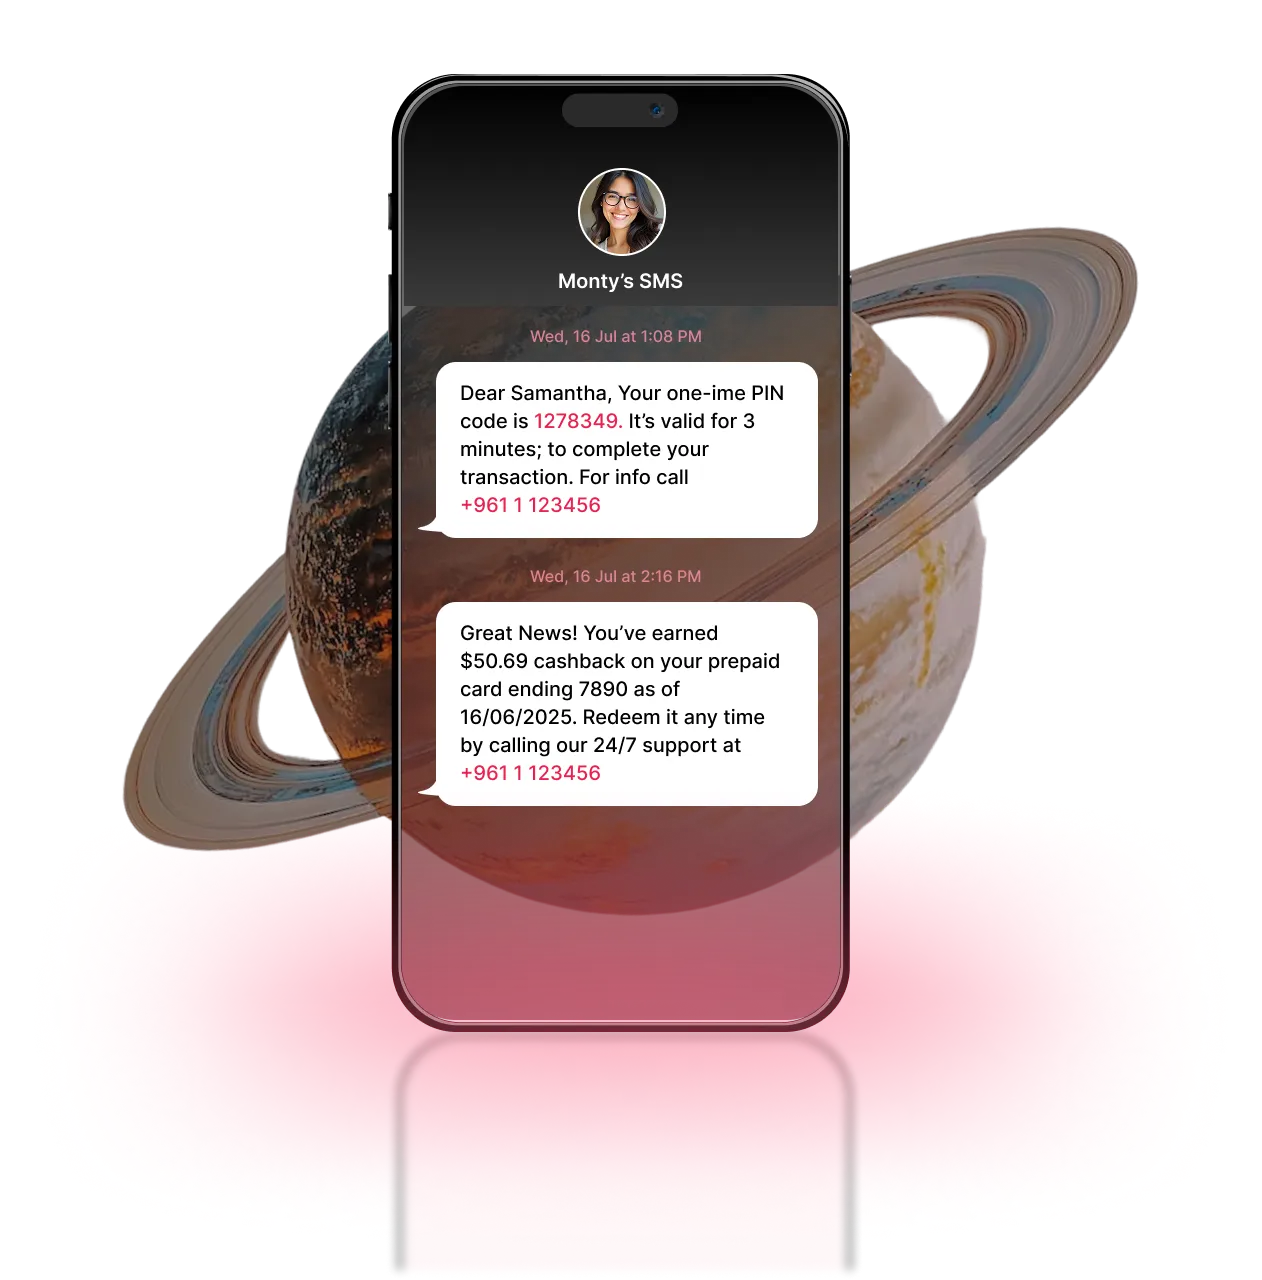
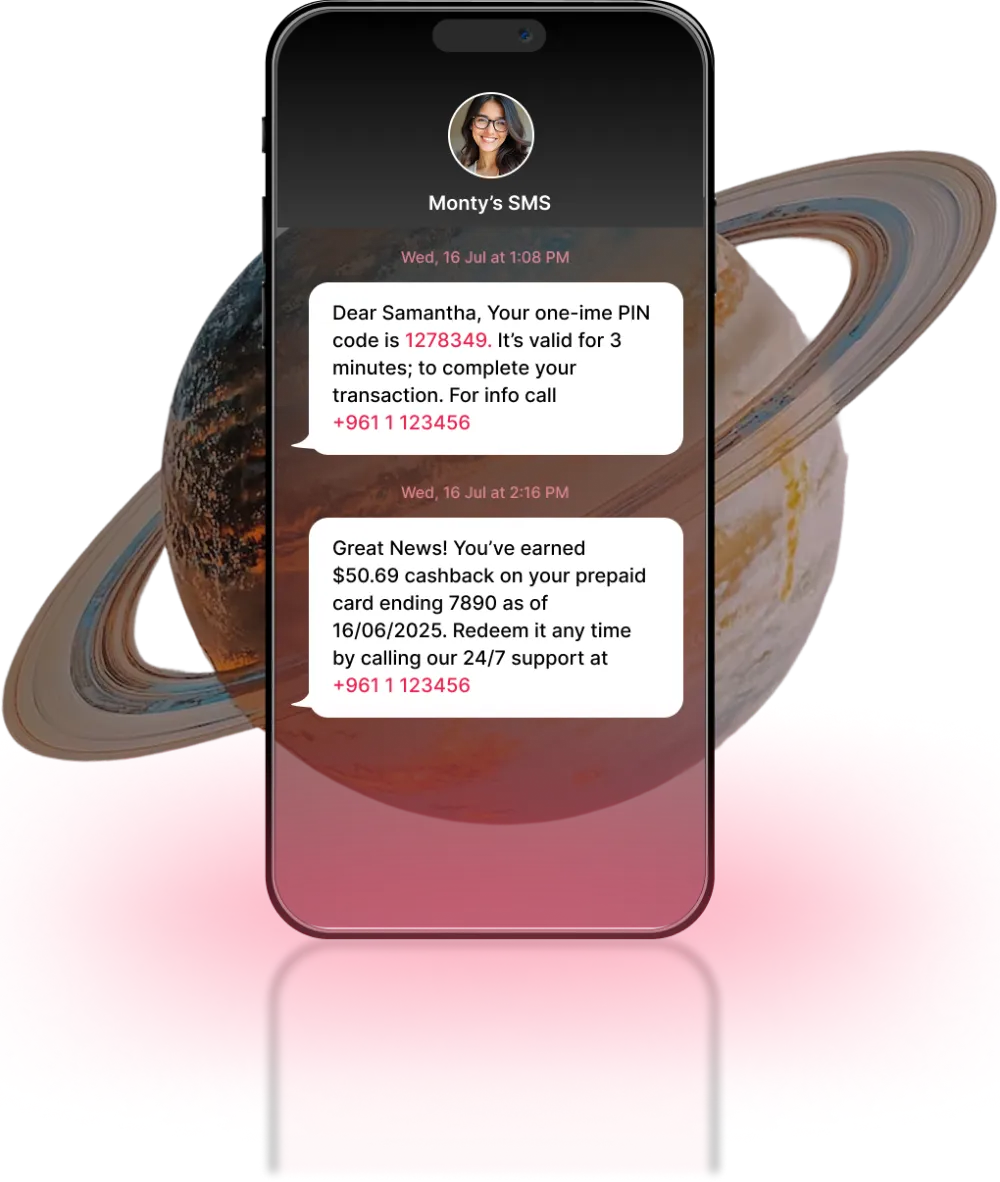
.

diff --git a/app/components/Banner.js b/app/components/Banner.js
@@ -2,9 +2,23 @@ import React from 'react';
 
 const Banner = () => {
   return (
-    <section>
-        <div className='container'>
-            
+    <section className='max-lg:py-10 lg:py-24'>
+        <div className='container max-lg:flex-col flex justify-between max-lg:gap-10 lg:gap-20'>
+            <div className='w-full'>
+                <div className='flex flex-col gap-5 lg:translate-y-24'>
+                    <h1 className='xl:text-6xl font-semibold text-balance'>Deliver Messages at Scale with Monty’s A2P SMS</h1>
+                    <p className='text-balance'>Power mission-critical communications with direct operator access, high-speed delivery, and full global coverage.</p>
+                    <a className='a2p-button mt-10' href='#'>
+                        <span>Contact Us</span>
+                        <svg className='translate-y-[0.5px]' width="18" height="14" viewBox="0 0 18 14" fill="none" xmlns="http://www.w3.org/2000/svg">
+                            <path fillRule="evenodd" clipRule="evenodd" d="M10.4697 0.46967C10.7626 0.176777 11.2374 0.176777 11.5303 0.46967L17.5303 6.46967C17.8232 6.76256 17.8232 7.23744 17.5303 7.53033L11.5303 13.5303C11.2374 13.8232 10.7626 13.8232 10.4697 13.5303C10.1768 13.2374 10.1768 12.7626 10.4697 12.4697L15.1893 7.75H1C0.585786 7.75 0.25 7.41421 0.25 7C0.25 6.58579 0.585786 6.25 1 6.25H15.1893L10.4697 1.53033C10.1768 1.23744 10.1768 0.762563 10.4697 0.46967Z" fill="white"/>
+                        </svg>
+                    </a>
+                </div>
+            </div>
+            <div className='w-full flex justify-end'>
+                <img src='/phone-planet.webp' className='lg:w-[600px]' alt="Phone Planet" width={1262} height={1280}/>
+            </div>
         </div>
     </section>
   )

diff --git a/app/layout.js b/app/layout.js
@@ -9,7 +9,8 @@ export default function RootLayout({ children }) {
   return (
     <html lang="en">
       <body className="font-outfit text-white bg-black">
-        <div className="absolute top-0 left-1/2 -translate-x-1/2">
+        <img className="fixed grayscale-100 -z-10 top-0 left-0 w-full h-full object-cover" src="/stars.webp" />
+        <div className="absolute top-0 left-1/2 -translate-x-1/2 -z-10">
           <svg className="max-lg:w-screen max-lg:h-auto" width="1015" height="438" viewBox="0 0 1015 438" fill="none" xmlns="http://www.w3.org/2000/svg">
             <g filter="url(#filter0_f_3_51)">
             <circle cx="507.5" cy="-69.5" r="257.5" fill="#EB224D" fillOpacity="0.4"/>
@@ -23,7 +24,6 @@ export default function RootLayout({ children }) {
             </defs>
           </svg>
         </div>
-        <img className="fixed grayscale-100 -z-10 top-0 left-0 w-full h-full object-cover" src="/stars.webp" />
         {children}
       </body>
     </html>

diff --git a/app/globals.css b/app/globals.css
@@ -27,3 +27,7 @@
 .menu > ul > li a:hover {
   @apply border border-[rgb(114,28,52)] bg-[rgba(33,33,33,1)] rounded-full max-xl:px-3 px-5 py-1;
 }
+
+.a2p-button {
+  @apply flex items-center justify-between gap-4 w-max text-center bg-primary rounded-full px-8 py-2;
+}

diff --git a/app/page.js b/app/page.js
@@ -1,9 +1,11 @@
+import Banner from "./components/Banner";
 import Header from "./components/Header";
 
 export default function Home() {
   return (
    <div>
       <Header />
+      <Banner />
    </div>
   );
 }
